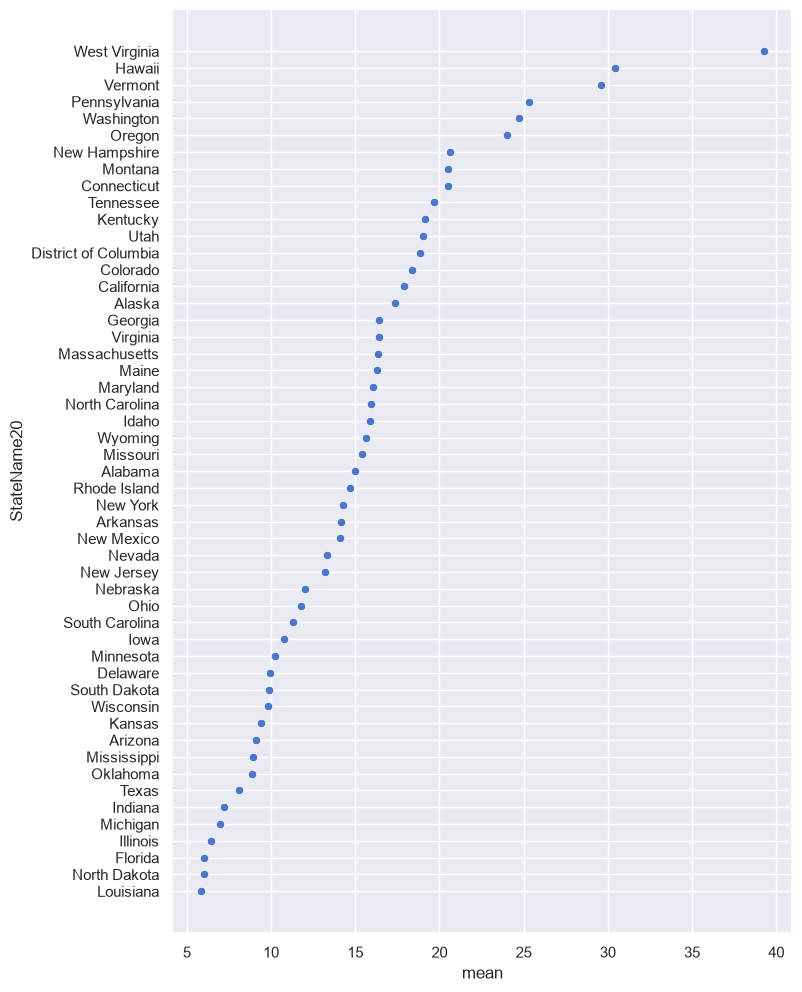
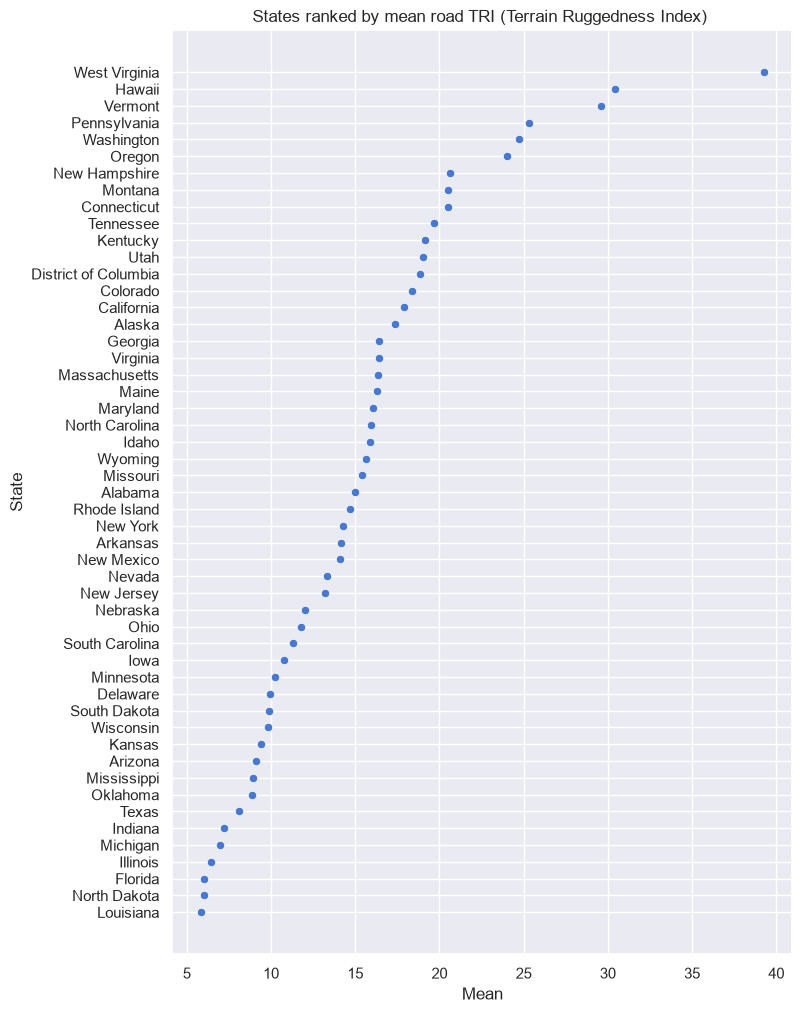
added road and area plots

diff --git a/TRI_Mean analysis.py b/TRI_Mean analysis.py
@@ -10,29 +10,39 @@ def read_ruggedness_data(dataset_filepath: str, sheet: str) -> pd.DataFrame:
 
 def road_TRI_stats(df: pd.DataFrame, state_col: str, road_TRI: str) -> pd.DataFrame:
     road_TRI_desc = (df.groupby(state_col)[road_TRI].describe())
-    road_stats = road_TRI_desc.sort_values(by='mean')
+    road_stats = road_TRI_desc.sort_values(by='mean', ascending=False)
     return road_stats
+
+def area_TRI_stats(df: pd.DataFrame, state_col: str, area_TRI: str) -> pd.DataFrame:
+    area_TRI_desc = (df.groupby(state_col)[area_TRI].describe())
+    area_stats = area_TRI_desc.sort_values(by='mean', ascending=False)
+    return area_stats
 
 def state_road_TRI_plot(stats: pd.DataFrame, state_col: str, stat_col: str )-> None:
     stats = stats.reset_index()
     plt.figure(figsize=(8, 12))
     road_plot = sns.scatterplot(data=stats, x=stat_col, y=state_col)
-    road_plot.invert_yaxis()
+    plt.title(f'States ranked by mean road TRI (Terrain Ruggedness Index) ')
+    plt.ylabel('State')
+    plt.xlabel('Mean')
     plt.savefig('scatter_plot_road_TRI.png', bbox_inches='tight')
 
-
-
-def area_TRI_stats(df: pd.DataFrame, state_col: str, area_TRI: str) -> pd.DataFrame:
-    area_TRI_desc = (df.groupby(state_col)[area_TRI].describe())
-    area_stats = area_TRI_desc.sort_values(by='mean')
-    return area_stats
+def state_area_TRI_plot(stats: pd.DataFrame, state_col: str, stat_col: str )-> None:
+    stats = stats.reset_index()
+    plt.figure(figsize=(9, 12))
+    road_plot = sns.scatterplot(data=stats, x=stat_col, y=state_col)
+    plt.title(f'States ranked by mean area TRI (Terrain Ruggedness Index) ')
+    plt.ylabel('State')
+    plt.xlabel('Mean')
+    plt.savefig('scatter_plot_area_TRI.png', bbox_inches='tight')
 
 def main():
     df = read_ruggedness_data('(read)ruggedness-scales-2020-tracts.xlsx',
                                'Ruggedness Scales 2020 Data')
     road_summary = road_TRI_stats(df, 'StateName20', 'RoadTRI_Mean')
-    #area_summary = area_TRI_stats(df, 'StateName20', 'AreaTRI_Mean')
+    area_summary = area_TRI_stats(df, 'StateName20', 'AreaTRI_Mean')
     state_road_TRI_plot(road_summary, 'StateName20', 'mean')
+    state_area_TRI_plot(area_summary, 'StateName20', 'mean')
 
 
 
